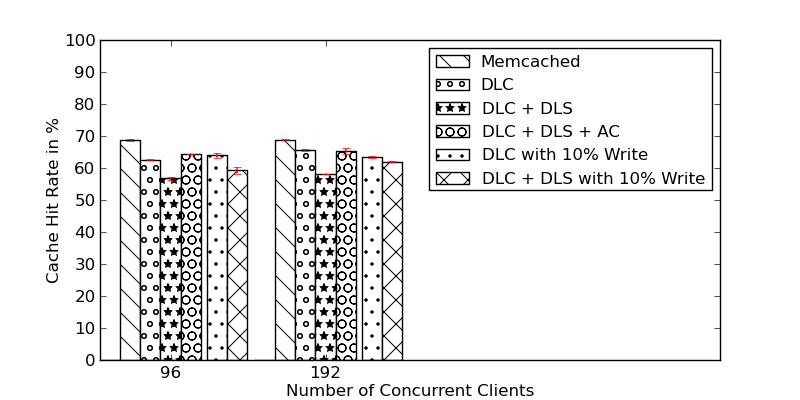
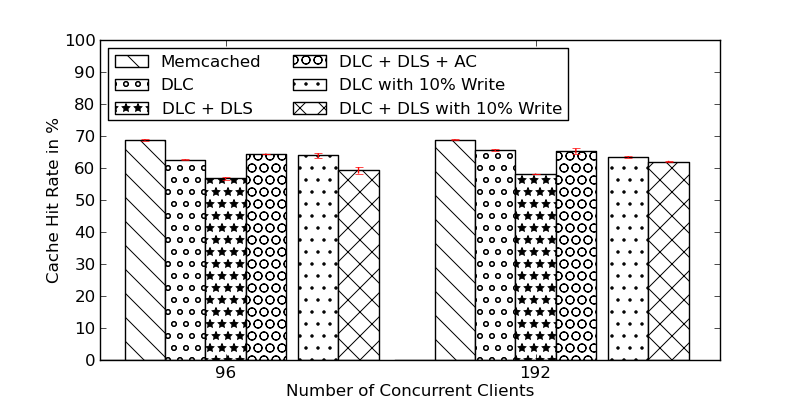
polished both bar & miss

Changed region(s): [[0.125, 0.09, 0.9062, 0.96]]

diff --git a/python/MicroFuge_Pyplot/bars/cache_bar.py b/python/MicroFuge_Pyplot/bars/cache_bar.py
@@ -77,8 +77,9 @@ width = 0.13      # the width of the bars: can also be len(x) sequence
 
 plt.clf()
 
+ind = ind - 0.05
 
-plt.figure(None, figsize=(8,4))
+plt.figure(None, figsize=(8,4), dpi = 300)
 
 mean_values = []
 stderr_values = []
@@ -136,8 +137,9 @@ p7 = plt.bar(ind[:2] + width * 6.3,  mean_values, width, color='w',
 
 
 
-
 plt.axis([0.0, 4, 0, 10])
+plt.xlim(xmax=2)
+
 plt.ylabel('Cache Hit Rate in %')
 plt.xlabel('Number of Concurrent Clients')
 plt.xticks(ind+width * 3.5, ('96', '192', '384', '768') )
@@ -146,7 +148,8 @@ plt.legend((p1[0], p2[0], p3[0], p4[0], p6[0], p7[0]),
            ('Memcached',
             'DLC', 'DLC + DLS', "DLC + DLS + AC",
             'DLC with 10% Write', 'DLC + DLS with 10% Write'),
-           loc = 'upper right', prop={'size':12})
+           loc = 'upper left', prop={'size':12},
+           ncol=2)
 
 # plt.show()
 saver.save(plt, 'EC2_BAR/cache_bar')

diff --git a/python/MicroFuge_Pyplot/bars/miss_bar.py b/python/MicroFuge_Pyplot/bars/miss_bar.py
@@ -78,9 +78,9 @@ width = 0.11      # the width of the bars: can also be len(x) sequence
 plt.clf()
 
 
-plt.figure(None, figsize=(8,4), dpi = 100)
+plt.figure(None, figsize=(8,4), dpi = 300)
 
-ind = ind + .03
+ind = ind + .06
 
 mean_values = []
 stderr_values = []
@@ -157,7 +157,7 @@ p7 = plt.bar(ind[:2] + width * 6.3,  mean_values, width, color='w',
 
 # this line sets the x axis max value
 # plt.xlim(xmax=3.3)
-plt.xlim(xmax=2.0)
+plt.xlim(xmax=1.95)
 plt.ylabel('Deadline Miss Rate in %')
 plt.xlabel('Number of Concurrent Clients')
 plt.xticks(ind+width * 3.5, ('96', '192', '384', '768') )
